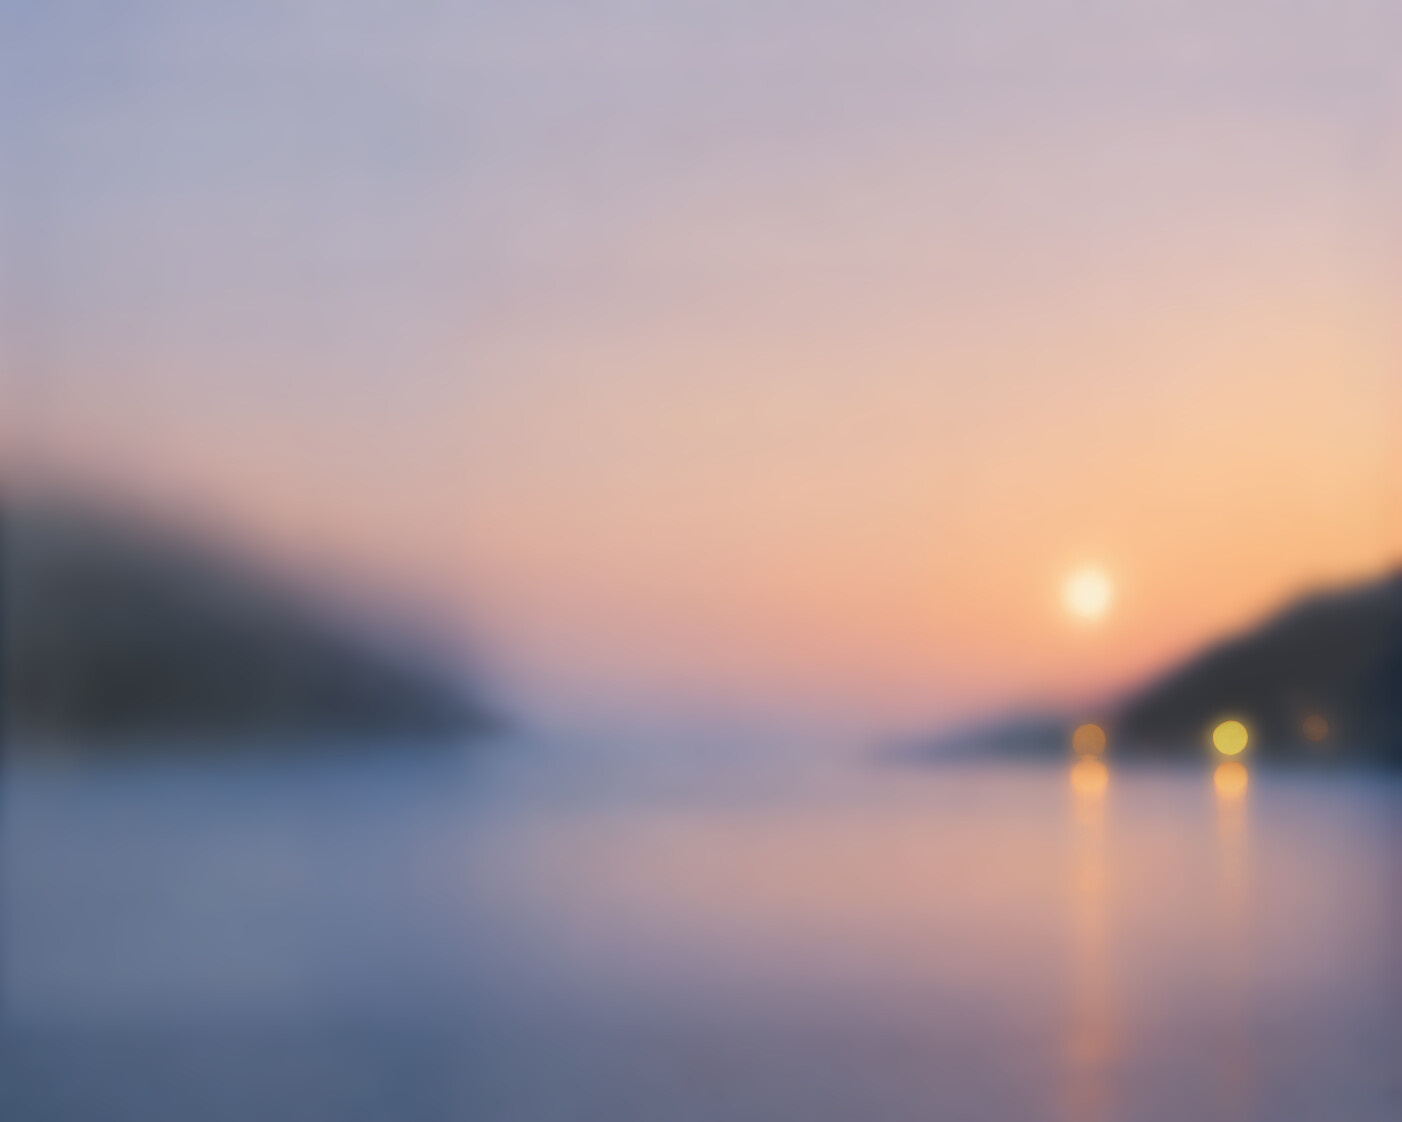
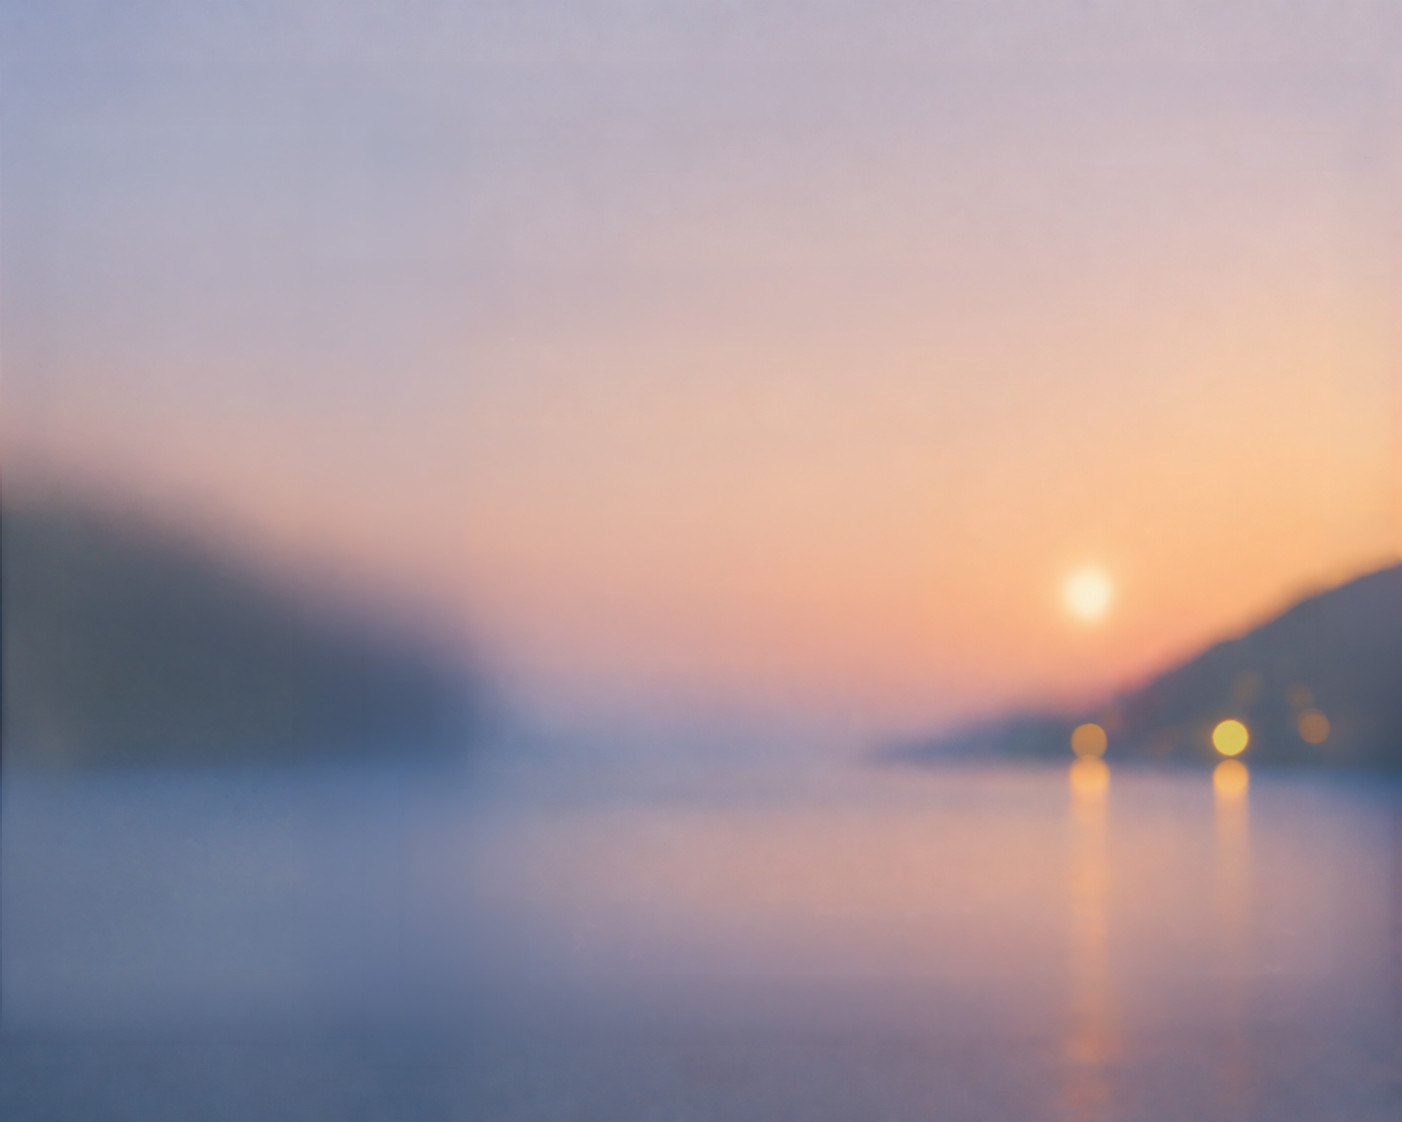
style(background): re-grade the backdrop to lift the right headland (#20)
The right headland was where dark prose had the least to work with. Measured
in 40px cells at a 1280x800 window, its worst cell goes from 1.51:1 to
2.44:1, while the sidebar's white text stays where it was at 2.10:1 — the
left of the frame did not change. Neither figure clears AA; the trade
recorded in PROGRESS.md stands, with better numbers on one side of it.

Encoded with the recipe CREDITS.md documents — quality 90, 4:4:4 chroma
because smooth sky gradients are the worst case for subsampling, progressive
— and bundled at the source's own 1402px rather than upscaled, since the
image is blurred far past the point where more pixels would show. 78K to 92K.

Changed region(s): [[0.7668, 0.4991, 1.0, 0.6863], [0.0, 0.5303, 0.3374, 0.6551]]

diff --git a/src/renderer/assets/backgrounds/CREDITS.md b/src/renderer/assets/backgrounds/CREDITS.md
@@ -11,10 +11,21 @@ use commercially and non-commercially without attribution. Credited anyway.
 | `violet-dusk.jpg` | Darya Karaliova | https://unsplash.com/photos/sLevNKufpBo |
 
 `lake-sunset.jpg` is not from Unsplash — it is the backdrop from the design
-mockup in `branding/`, extracted by hand. It is the only bundled image with the
-luminance split the mockup's layout depends on: its sidebar region measures
-1.8x darker than its editor region, which is what lets the mockup carry white
-text on the left and near-black on the right at the same time.
+mockup in `branding/`, extracted by hand, and since re-graded to lift the right
+headland. It is the only bundled image with the luminance split the mockup's
+layout depends on: its sidebar region is markedly darker than its editor
+region, which is what lets the layout carry white text on the left and
+near-black on the right at the same time.
+
+Measured in 40px cells at a 1280x800 window, the re-graded version takes dark
+prose over its worst cell from **1.51:1 to 2.44:1** while leaving the sidebar's
+white text where it was (2.10:1). The right headland was the dark prose's worst
+case, and that is the part that changed. Neither figure clears AA — see
+`PROGRESS.md` on why the panels carry no scrim.
+
+Source: `branding/backgrounds/background-lighter.png`. It is 1402px wide and is
+bundled at that size rather than upscaled; the image is blurred far past the
+point where the extra pixels would show.
 
 Originals are kept out of the app at `branding/backgrounds/`. Regenerate the
 bundled copies with:

diff --git a/PROGRESS.md b/PROGRESS.md
@@ -98,6 +98,12 @@ It also compresses the range, which moves white sidebar text from 2.1-11.8:1 on
 the bare photograph to 2.4-8.1:1 under the overlay. Legibility rides entirely on text colour: white in
 the sidebar and the breadcrumb row, dark ink for the prose.
 
+**The backdrop was re-graded to lift the right headland**, which was the dark
+prose's worst case. Measured the same way, that cell goes from 1.51:1 to
+2.44:1, and the sidebar's white text is untouched at 2.10:1 — the left of the
+frame did not change. Still short of AA; the trade below stands, with better
+numbers on one side of it.
+
 **This is a deliberate trade against contrast, chosen with the numbers known.**
 Sampled in 40px cells (region averages hid the extremes), white sidebar text
 runs from 11.8:1 over the dark headland down to **2.1:1** where the photograph
